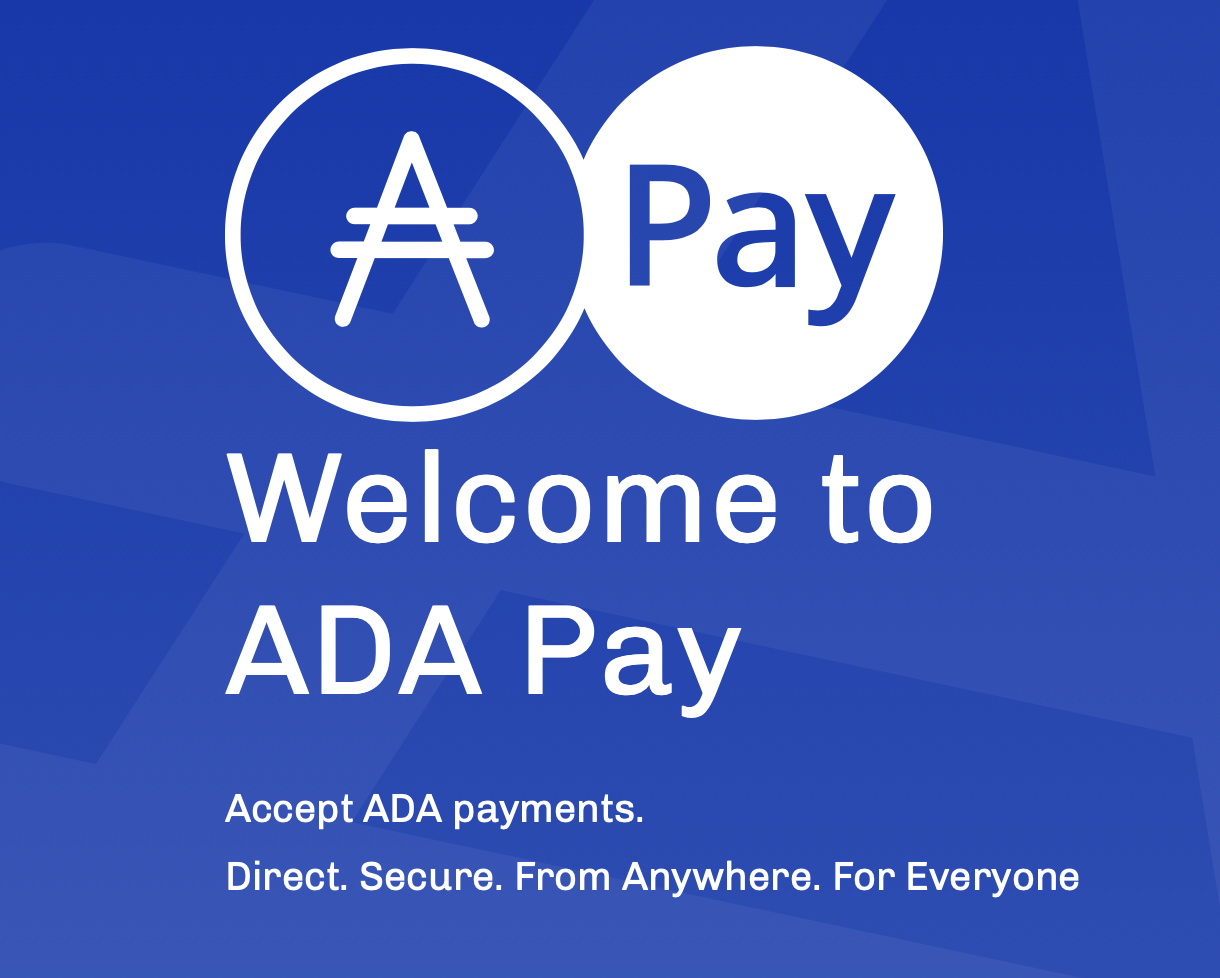
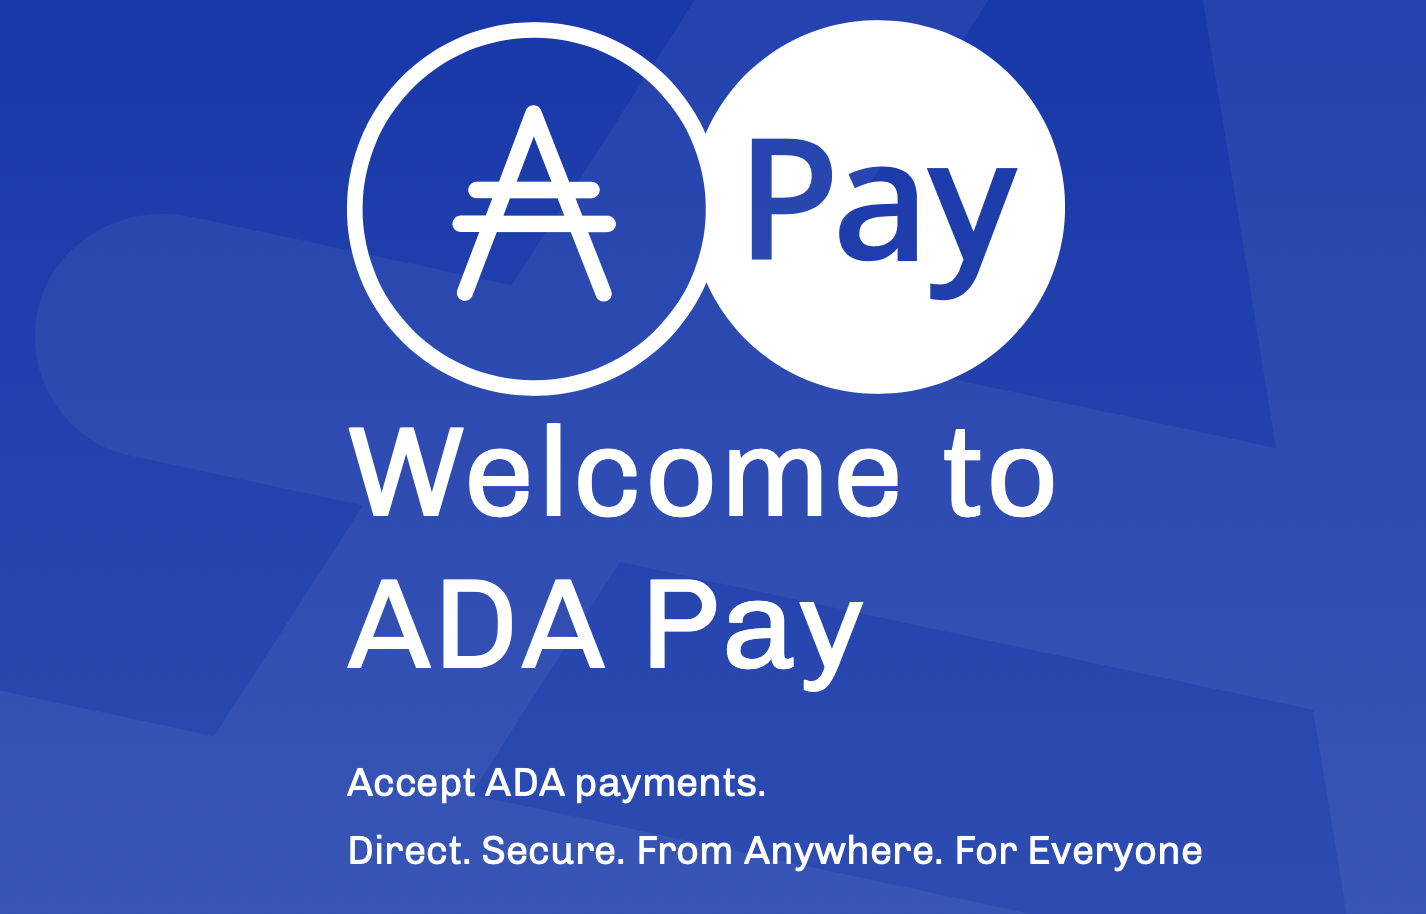
imgs

diff --git a/payment_adapay/static/description/index.html b/payment_adapay/static/description/index.html
@@ -1,79 +1,10 @@
 <section class="oe_container">
     <div class="oe_row oe_spaced">
-        <h2 class="oe_slogan" style="color:#875A7B;">The real customer centric CRM</h2>
-        <h3 class="oe_slogan">Track leads, close opportunities and get accurate forecasts.</h3>
+        <h2 class="oe_slogan" style="color:#875A7B;">Welcome to ADA Pay</h2>
+        <h3 class="oe_slogan">Accept ADA Payments.</h3>
+        <h3 class="oe_slogan">Direct. Secure. From Anywhere. For Everyone</h3>
         <div class="oe_demo oe_picture oe_screenshot">
-            <img src="crm_sc_00.png">
-        </div>
-    </div>
-</section>
-
-<section class="oe_container oe_dark">
-    <div class="oe_row oe_spaced">
-        <h2 class="oe_slogan" style="color:#875A7B;">Get accurate forecasts</h2>
-        <h3 class="oe_slogan">Use actionable data to make better decisions</h3>
-        <div class="oe_span6 text-justify oe_mt32">
-            <span class="fa fa-search fa-2x pull-left"/>
-            <p class="oe_mb32" style="margin-left:48px;">
-            Get the insights you need to make smarter decisions.
-            </p>
-            <span class="fa fa-sliders fa-2x pull-left"/>
-            <p class="oe_mb32" style="margin-left:48px;">
-            Design custom dashboards to get a picture of your business at a glance.
-            </p>
-            <span class="fa fa-bar-chart fa-2x pull-left"></span>
-            <p>
-            Dig deeper with real-time reports and flow charts that anyone can create and share.
-            </p>
-        </div>
-        <div class="oe_span6">
-            <img class="oe_picture oe_screenshot" src="crm_preview.gif">
-        </div>
-    </div>
-</section>
-
-<section class="oe_container">
-    <div class="oe_row oe_spaced">
-        <h2 class="oe_slogan" style="color:#875A7B;">Get more done in less time</h2>
-        <h3 class="oe_slogan">Great Tool = Happy People</h3>
-        <div class="oe_span6">
-            <img class="oe_picture oe_screenshot" src="crm_sc_02a.png">
-        </div>
-        <div class="oe_span6">
-            <p class="oe_mt32 oe_mb32 text-justify">
-            Automate activities based on your sales scripts: calls, meetings, mails and quotations. Get all information you need, right on the opportunity: page viewed, mails received, etc.
-            </p>
-            <img class='img-responsive' src="crm_sc_02b.png">
-        </div>
-    </div>
-</section>
-
-<section class="oe_container oe_dark">
-    <div class="oe_row oe_spaced">
-        <div class="oe_span6">
-            <h2 class="oe_slogan" style="color:#875A7B; text-align: left;">Real-time overview</h2>
-            <h3 class="oe_slogan" style="text-align: left;">of your performances &amp; next activities</h3>
-            <p class="oe_mt32">
-            Know exactly how you perform compared to your monthly targets.<br/>Organize your work based on your scheduled next actions.
-            </p>
-        </div>
-        <div class="oe_span6">
-            <img class="oe_picture oe_screenshot" src="crm_sc_03.png"/>
-        </div>
-    </div>
-</section>
-
-<section class="oe_container">
-    <div class="oe_row oe_spaced">
-        <h2 class="oe_slogan" style="color:#875A7B;">Stay connected to your customers</h2>
-        <h3 class="oe_slogan">Real-time messaging to enhance collaboration</h3>
-        <div class="oe_span6">
-            <img class="oe_picture oe_screenshot" src="crm_sc_04.png"/>
-        </div>
-        <div class="oe_span6">
-            <p class="oe_mt32 text-justify">
-            Get a quick overview of what's going on in your team. See when a colleague logs a call or send a quote. Share ideas and files in real-time and catch-up things you missed when you were away.
-            </p>
+            <img src="main_screenshot.png">
         </div>
     </div>
 </section>

diff --git a/payment_adapay/__manifest__.py b/payment_adapay/__manifest__.py
@@ -8,6 +8,7 @@
     'version': '0.1',
     'description': """Accept ADA payments. Direct. Secure. From Anywhere. For Everyone""",
     'depends': ['payment'],
+    'images': ['main_screenshot.png'],
     'data': [
         'data/payment_icon.xml',
         'views/payment_views.xml',
